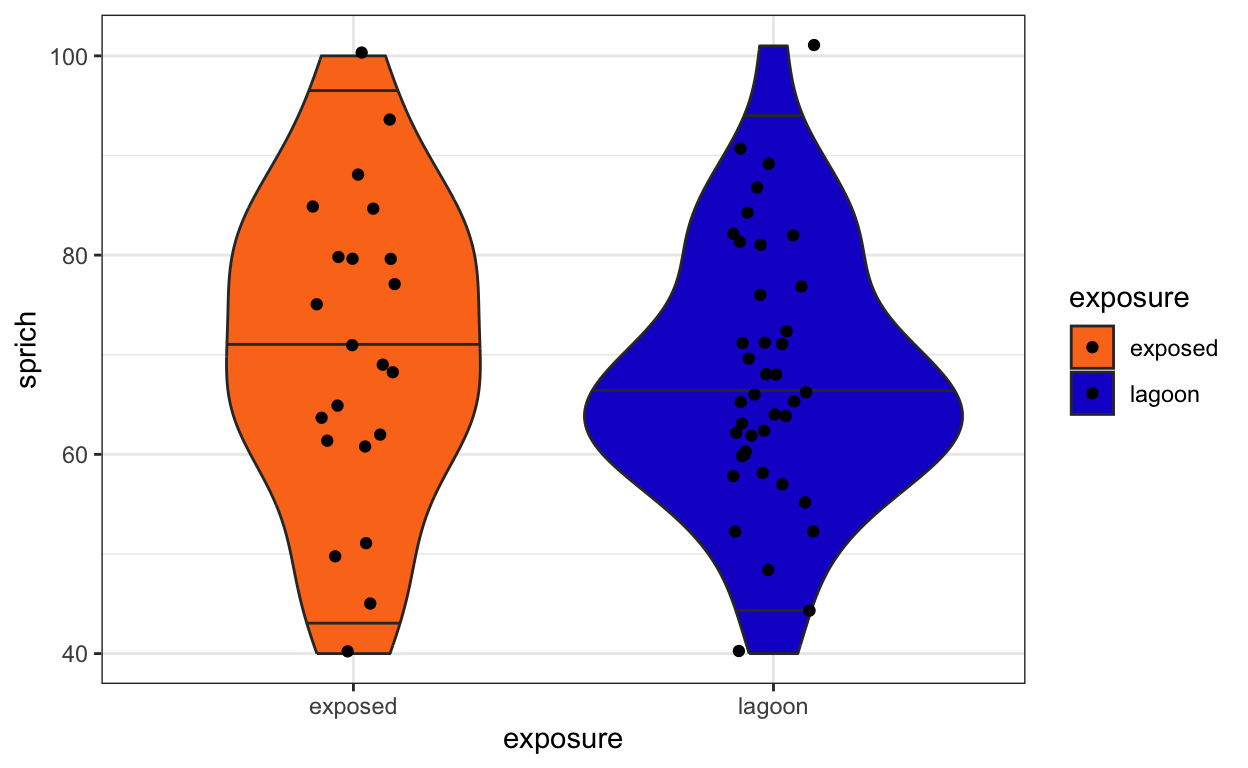
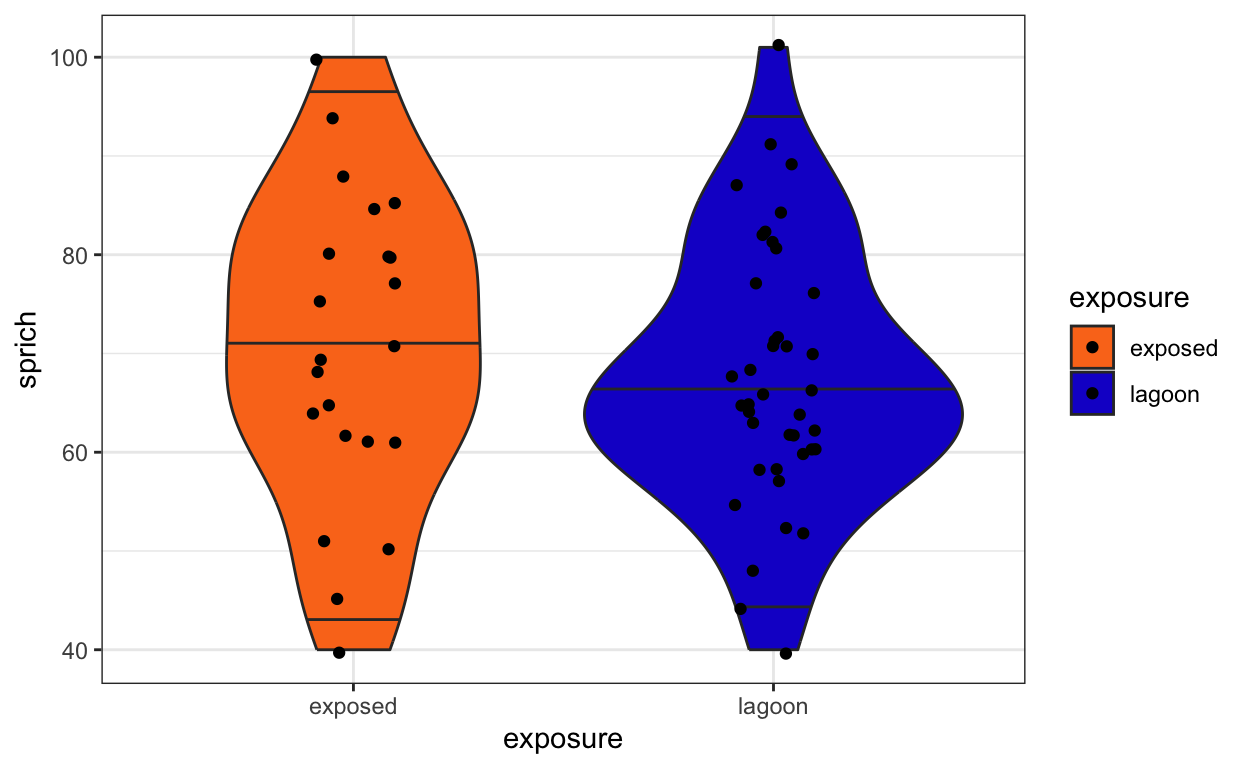
Rebuilt with new link

diff --git a/docs/1-introduction.html b/docs/1-introduction.html
@@ -2819,34 +2819,34 @@ Coding in R
 <pre class="sourceCode r"><code class="sourceCode r"><span><span class='va'>b1</span> <span class='op'>&lt;-</span> <span class='fu'><a href='https://rdrr.io/r/stats/Poisson.html'>rpois</a></span><span class='op'>(</span><span class='fl'>100</span>,<span class='fl'>10</span><span class='op'>)</span></span>
 <span><span class='va'>b1</span></span></code></pre>
 </div>
-<pre><code>  [1] 13 10  7  6  9  6 16  9 11 13 10 12  9 12  7  9  8  5 11  9 15
- [22]  8 12  7 18 12 10 18  7 12 10 14 10  4 11 10  6 10 13  6 11  8
- [43]  6  9 15 12 10  7  9  9 12  9 11  6 12 10  6  7  9 14 14  8  2
- [64]  9 10  6  8  9  3 14  6  9 10 16  9 10 14  8  7  6 12  6 10 10
- [85]  8 11  8  9  7  9 12  8  7  8 13  9  5 11  8 12</code></pre>
+<pre><code>  [1]  6  5 10 12 13 12 11  6 10 10  8 11 12  8  7  4 10 12  8 12 11
+ [22]  9  8  8 10 10  4 10 12 16  7  6  9  7  9  8 11  6 12 12 11 10
+ [43]  8 13 17  6 18  5 14 13 11  6  6 13  8 15  7 17 11  8  7  9  7
+ [64]  8  9  3 15  7 10  6  7 14  6  7 11  9 12  7 13  7 13 13  8  8
+ [85] 17 12 13  2 11 12 10  7 12 19 11 17  8  7 10  8</code></pre>
 <div class="sourceCode">
 <pre class="sourceCode r"><code class="sourceCode r"><span><span class='va'>b2</span> <span class='op'>&lt;-</span> <span class='va'>b1</span><span class='op'>[</span><span class='va'>b1</span> <span class='op'>==</span> <span class='fl'>8</span><span class='op'>]</span></span>
 <span><span class='fu'><a href='https://rdrr.io/r/base/table.html'>table</a></span><span class='op'>(</span><span class='va'>b2</span><span class='op'>)</span></span></code></pre>
 </div>
 <pre><code>b2
  8 
-11 </code></pre>
+14 </code></pre>
 <div class="sourceCode">
 <pre class="sourceCode r"><code class="sourceCode r"><span><span class='fu'><a href='https://rdrr.io/r/base/length.html'>length</a></span><span class='op'>(</span><span class='va'>b2</span><span class='op'>)</span></span></code></pre>
 </div>
-<pre><code>[1] 11</code></pre>
+<pre><code>[1] 14</code></pre>
 <div class="sourceCode">
 <pre class="sourceCode r"><code class="sourceCode r"><span><span class='va'>b3</span> <span class='op'>&lt;-</span> <span class='va'>b1</span><span class='op'>[</span><span class='va'>b1</span> <span class='op'>&gt;</span><span class='fl'>10</span><span class='op'>]</span></span>
 <span><span class='va'>b3</span></span></code></pre>
 </div>
-<pre><code> [1] 13 16 11 13 12 12 11 15 12 18 12 18 12 14 11 13 11 15 12 12 11 12
-[23] 14 14 14 16 14 12 11 12 13 11 12</code></pre>
+<pre><code> [1] 12 13 12 11 11 12 12 12 11 12 16 11 12 12 11 13 17 18 14 13 11 13
+[23] 15 17 11 15 14 11 12 13 13 13 17 12 13 11 12 12 19 11 17</code></pre>
 <div class="sourceCode">
 <pre class="sourceCode r"><code class="sourceCode r"><span><span class='va'>b4</span> <span class='op'>&lt;-</span> <span class='va'>b1</span><span class='op'>[</span><span class='va'>b1</span> <span class='op'>&lt;</span><span class='fl'>10</span> <span class='op'>&amp;</span> <span class='va'>b1</span> <span class='op'>&gt;</span><span class='fl'>5</span><span class='op'>]</span></span>
 <span><span class='va'>b4</span></span></code></pre>
 </div>
-<pre><code> [1] 7 6 9 6 9 9 7 9 8 9 8 7 7 6 6 8 6 9 7 9 9 9 6 6 7 9 8 9 6 8 9 6 9
-[34] 9 8 7 6 6 8 8 9 7 9 8 7 8 9 8</code></pre>
+<pre><code> [1] 6 6 8 8 7 8 9 8 8 7 6 9 7 9 8 6 8 6 6 6 8 7 8 7 9 7 8 9 7 6 7 6 7
+[34] 9 7 7 8 8 7 8 7 8</code></pre>
 </div>
 <h3 id="c">c)</h3>
 <div class="layout-chunk" data-layout="l-body">
@@ -2870,52 +2870,52 @@ Coding in R
 <pre class="sourceCode r"><code class="sourceCode r"><span><span class='va'>a1</span> <span class='op'>&lt;-</span> <span class='fu'><a href='https://rdrr.io/r/stats/Poisson.html'>rpois</a></span><span class='op'>(</span><span class='fl'>500</span>, <span class='fl'>10</span><span class='op'>)</span></span>
 <span><span class='fu'><a href='https://rdrr.io/r/utils/head.html'>head</a></span><span class='op'>(</span><span class='va'>a1</span><span class='op'>)</span></span></code></pre>
 </div>
-<pre><code>[1] 12  8 11  5 11  8</code></pre>
+<pre><code>[1]  7  9  5 14  8  5</code></pre>
 <div class="sourceCode">
 <pre class="sourceCode r"><code class="sourceCode r"><span><span class='va'>a2</span> <span class='op'>&lt;-</span> <span class='va'>a1</span><span class='op'>[</span><span class='va'>a1</span> <span class='op'>&gt;</span> <span class='fl'>15</span><span class='op'>]</span></span>
 <span><span class='fu'><a href='https://rdrr.io/r/base/length.html'>length</a></span><span class='op'>(</span><span class='va'>a2</span><span class='op'>)</span><span class='op'>/</span><span class='fu'><a href='https://rdrr.io/r/base/length.html'>length</a></span><span class='op'>(</span><span class='va'>a1</span><span class='op'>)</span></span></code></pre>
 </div>
-<pre><code>[1] 0.046</code></pre>
+<pre><code>[1] 0.04</code></pre>
 <div class="sourceCode">
 <pre class="sourceCode r"><code class="sourceCode r"><span><span class='va'>a3</span> <span class='op'>&lt;-</span> <span class='fu'><a href='https://rdrr.io/r/base/rev.html'>rev</a></span><span class='op'>(</span><span class='fu'><a href='https://rdrr.io/r/base/sort.html'>sort</a></span><span class='op'>(</span><span class='va'>a1</span><span class='op'>)</span><span class='op'>)</span></span>
 <span><span class='fu'><a href='https://rdrr.io/r/utils/head.html'>head</a></span><span class='op'>(</span><span class='va'>a3</span><span class='op'>)</span></span></code></pre>
 </div>
-<pre><code>[1] 20 19 19 18 18 18</code></pre>
+<pre><code>[1] 20 20 19 19 18 18</code></pre>
 <div class="sourceCode">
 <pre class="sourceCode r"><code class="sourceCode r"><span><span class='va'>a4</span> <span class='op'>&lt;-</span> <span class='fu'><a href='https://rdrr.io/r/base/Log.html'>log</a></span><span class='op'>(</span><span class='va'>a1</span><span class='op'>)</span></span>
 <span><span class='fu'><a href='https://rdrr.io/r/utils/head.html'>head</a></span><span class='op'>(</span><span class='va'>a4</span><span class='op'>)</span></span></code></pre>
 </div>
-<pre><code>[1] 2.484907 2.079442 2.397895 1.609438 2.397895 2.079442</code></pre>
+<pre><code>[1] 1.945910 2.197225 1.609438 2.639057 2.079442 1.609438</code></pre>
 <div class="sourceCode">
 <pre class="sourceCode r"><code class="sourceCode r"><span><span class='co'>#a5</span></span>
 <span><span class='va'>a1</span><span class='op'>[</span><span class='fu'><a href='https://rdrr.io/r/base/seq.html'>seq</a></span><span class='op'>(</span>from<span class='op'>=</span><span class='fl'>0</span>,to<span class='op'>=</span><span class='fl'>500</span>,by<span class='op'>=</span><span class='fl'>10</span><span class='op'>)</span><span class='op'>]</span><span class='op'>&lt;-</span><span class='fl'>0</span></span>
 <span><span class='co'>#or</span></span>
 <span><span class='fu'><a href='https://rdrr.io/r/base/replace.html'>replace</a></span><span class='op'>(</span><span class='va'>a1</span>, <span class='op'>(</span><span class='fu'><a href='https://rdrr.io/r/base/seq.html'>seq</a></span><span class='op'>(</span>from<span class='op'>=</span><span class='fl'>0</span>, to<span class='op'>=</span><span class='fl'>500</span>, by<span class='op'>=</span><span class='fl'>10</span><span class='op'>)</span><span class='op'>)</span>, <span class='fl'>0</span><span class='op'>)</span></span></code></pre>
 </div>
-<pre><code>  [1] 12  8 11  5 11  8 13 15  9  0 17  5  9  8 10 13  8 10 12  0  8
- [22]  5 12  5  7  8 10  8 12  0  7  5 10  9  6 12  5 10 12  0 13  9
- [43]  9 10  7 11 16  6  9  0 16 11 10 12 11 14 17  7  6  0 12 10 14
- [64] 11  9 11  9 11 11  0  6  7  7 11  3  6 11 11 12  0 14 14 13 14
- [85]  6  7  9 13  6  0 16  9  9 10  8  9  9  8 12  0  5  6  8 16 11
-[106]  8 13 11 11  0 16 15 11 10  8 13 11 12 12  0 15 11 11  6 11  6
-[127] 12 13 13  0 14  9  9 13 10 10 11  6 13  0  8 12 13  6  8  7  3
-[148] 15 10  0 10 15 19  8  5  9  6  9  7  0 11  7 12 12  9 10 11  7
-[169]  9  0 11 12  6 10 11 10  5 10 14  0 10 10  9  9  6 17 11 13  5
-[190]  0  9 16 10 14  8  9  9  7 12  0 10 10  9  8 11 11 10 12  7  0
-[211]  7  7 10 11 18  8 12  8  9  0 10 15  4 10 12  9  6  7  9  0 14
-[232] 15  4  9 14 10  8 15 11  0  9 10  8 11 13  7 18  7 11  0  8  9
-[253] 10 10  9  9  6 11 12  0  8  8  6  9 14  8  7 16  6  0 13 11  9
-[274] 17 11 13 15 11  4  0  7 13 20  6 11 13  8 12  9  0  8 12  9  7
-[295]  7  6 13 14  6  0  9 11 13  5 12 14 12 12 10  0 10 14  8  6 13
-[316] 10  7  9  3  0 12  9  9  5  6 13 10 11 12  0  8  8  6  6 16 12
-[337] 10 11 15  0  9 13 11 11 11  7 15 11 13  0 13  8 16  5 13  6 11
-[358] 16  8  0 10 10 11 11 12 10  8 15 13  0 10  3 12 10 11  7  8 10
-[379]  9  0  5 13  9  9 12 10  6 13  8  0 13 11  8  7  8 10  6  7  9
-[400]  0  8 10  5 15 15 18 15  9 15  0 11 11  9 17  8 10  8 13 10  0
-[421] 10 11 15  6 10  7 11  7  9  0  9 12  5  8 15 10 11 11 16  0 13
-[442] 11  8  8 12 10  7 12 11  0  5  9 10 11 11  5  9  9  9  0 13  3
-[463]  9 11 19 15 13 10 10  0  8 12  9  7  6 12 13  5 13  0 12  8  9
-[484]  8  7  5 13 14 15  0  8 13  5  7 10 11  8 10 11  0</code></pre>
+<pre><code>  [1]  7  9  5 14  8  5 10 10 10  0 12  8 16 11 12 10  8  9 13  0  8
+ [22]  5  5  5 10  8 11 13  8  0 14  8 15 15  8  5  8  7  7  0 11 11
+ [43] 12 14 10  8 15 10  8  0  5 10  8 10 13 11 13  9 15  0 12  7 11
+ [64] 12 11  6  7  9 17  0 12 11  9  9 11  2  9  5  6  0  8  8  7  9
+ [85] 12  8  7 12  6  0 12  9 11 15 15 13 18  5  7  0  7  9  9 11 12
+[106]  7 11  9 16  0  5 12  8  8 10  8  8 15  7  0  8 13  8  7  8 11
+[127] 10 10  8  0 10 11  7 14 16 12  8 15  8  0 13 14 10 10  8 11  5
+[148]  6  8  0 11  8 11 12  8 13 11 11  8  0  7  7  5 10  9 10 11 14
+[169]  6  0  5  8 13  7  8 11 10 12  6  0 10 11 11 12 13  7  5 12 11
+[190]  0  5 11  9  5 13 12 11 14 15  0 11  8  9  9  6 12  7 11  8  0
+[211]  8  7 10  8 10  9  8  7 13  0 10  6  8 10  9  6 20 11  9  0  7
+[232]  9 11 18  7  6  8  9  9  0 11  7  9  7  5  9  6 10  4  0  9  7
+[253]  5  7 16  8  7  5 13  0  6 10 10 11 12 14 11  8  9  0  9 10  9
+[274]  5  8  4 12 11 12  0  9 11  2  8  6 16  4 13 14  0 12 11 12  5
+[295]  8 11 10 13 10  0 11 12  6  7  8 10 10 12 11  0  9 15 10  6 12
+[316] 12  7  9  9  0 15  6  9  7 17  9  9  6  6  0  8 19 14 12 13 10
+[337]  4 10 17  0  8  8  3 14  5 10 11 20 13  0 14 12 16 16  8 12  8
+[358] 16 14  0 11 12 11 12 15 11 10 14 11  0  5 10  8  8  8  9 12 18
+[379] 10  0 13 11  4 11 10  7 11  8  9  0  8 10 11  9 11 14  6  7  8
+[400]  0  8  7 12  7 13 13  7  8  6  0 14 12  9  5  8  8 10  4 10  0
+[421]  5 11 13 12  7  9  9  8  6  0 13 10 10  9  6  9 16 13  7  0  8
+[442] 10 13  8 11  8  7 13 11  0  6  9  6 11 12  6  9 12  7  0  8 11
+[463] 12 10  6 10 14  6  7  0 10  5 13  7 15  4 10 13 13  0 12 10  7
+[484]  9  6  9 14 13  9  0  8  7  6 10 12  6  7 10 15  0</code></pre>
 <div class="sourceCode">
 <pre class="sourceCode r"><code class="sourceCode r"><span><span class='va'>a5logmean</span> <span class='op'>&lt;-</span> <span class='fu'><a href='https://rdrr.io/r/base/mean.html'>mean</a></span><span class='op'>(</span><span class='fu'><a href='https://rdrr.io/r/base/Log.html'>log</a></span><span class='op'>(</span><span class='va'>a1</span><span class='op'>[</span><span class='fu'><a href='https://rdrr.io/r/base/seq.html'>seq</a></span><span class='op'>(</span>from<span class='op'>=</span><span class='fl'>0</span>,to<span class='op'>=</span><span class='fl'>500</span>,by<span class='op'>=</span><span class='fl'>10</span><span class='op'>)</span><span class='op'>]</span><span class='op'>&lt;-</span><span class='fl'>0</span><span class='op'>)</span><span class='op'>)</span> <span class='co'># doesn't work because of -Inf values, so let's go step-by-step</span></span>
 <span></span>
@@ -2958,76 +2958,76 @@ Coding in R
 <span><span class='fu'><a href='https://rdrr.io/r/utils/head.html'>head</a></span><span class='op'>(</span><span class='va'>c1</span><span class='op'>)</span></span></code></pre>
 </div>
 <pre><code>          [,1]      [,2]      [,3]      [,4]      [,5]      [,6]
-[1,] 103.65562 101.22711 105.76859  88.86894 102.22062 106.32632
-[2,] 113.22592  97.69081 117.00387  94.00376  89.26967 115.87062
-[3,]  80.15208 102.01380 113.08119  88.39550  99.58117 105.06630
-[4,] 110.18524  97.01070  93.76947  74.86526 107.39281 109.13008
-[5,]  99.64348  95.42048 112.67507 105.72902 125.05019  98.06804
-[6,] 104.63378  85.03731 105.95855 116.72027  99.32902 115.88835
+[1,]  99.59416 116.19500 108.47423  86.72064  98.52786 127.04213
+[2,] 107.83928  93.22018 110.48586  99.59424 119.42783  98.38062
+[3,]  95.66261 101.17058  80.62598 100.66730  92.44391 104.01521
+[4,] 101.68295 115.84988 109.92216 108.52651 100.85477  96.85815
+[5,] 111.69038 102.55995  89.78516 110.44261 101.90267 115.22608
+[6,]  76.72973  97.30814  82.79754 104.17773  88.15206 107.98915
           [,7]      [,8]      [,9]     [,10]     [,11]     [,12]
-[1,]  87.93976  95.80238 111.64714 110.60323 106.67878 100.80177
-[2,] 114.82316 104.60330  92.10494  95.03110 104.46856  96.82398
-[3,]  99.41770 103.16440  85.71278  90.46003  81.41973  98.30198
-[4,]  99.22325  97.20583  94.68459 101.80531  76.96327  93.53885
-[5,] 106.20944 101.86919  92.94820  88.37779  76.46108  99.28037
-[6,]  92.75100  97.38919 102.18355 110.97636  84.23188  91.52920
-         [,13]     [,14]     [,15]     [,16]     [,17]     [,18]
-[1,]  89.25486 121.72119  82.92821  96.66179  92.57092 102.92133
-[2,] 101.91895 111.25251 113.02939  81.54711  97.83780  86.06729
-[3,] 105.49562 102.33688  90.70931 102.43243  97.09849  92.79204
-[4,] 100.20590  96.31525  97.43857  94.84951  92.34941 117.16263
-[5,] 114.83961  83.37157 115.41543 126.26213 114.87900 102.27601
-[6,] 100.57289  99.52390  93.33531 109.77464  94.04768 103.66332
+[1,]  96.21936  79.96057 100.90805 117.76702 109.74161  98.03116
+[2,] 105.26563 120.10472  96.31005 109.08759 104.65015  93.42176
+[3,]  94.88510  94.89383 119.10407  97.11817 100.96546  93.60765
+[4,] 105.45061  77.58664  99.07037  99.06464 120.49667 103.27415
+[5,]  79.49622 100.21319 105.08712 113.04148  92.45847 105.49620
+[6,]  80.53647  95.32184 101.89792 106.22748  88.01336 105.39017
+         [,13]     [,14]     [,15]     [,16]    [,17]     [,18]
+[1,]  96.47781  87.88193 105.55433 106.73350 110.7304  92.07627
+[2,]  99.91062 103.84874  76.51748 111.51594 105.5600 111.87563
+[3,]  96.86252 114.35411 105.67174  97.83965 106.4747 115.06750
+[4,]  98.60403  87.30328  86.52974 104.70433 101.5320  99.83222
+[5,]  89.36371  89.58280  99.08692  82.98033 101.4818  96.82830
+[6,] 107.04656 100.95071  97.70789  93.65879 100.8967  88.91626
          [,19]     [,20]
-[1,] 108.86376  95.56839
-[2,] 103.07032  85.43460
-[3,] 112.05596  89.66971
-[4,] 107.33602  96.72665
-[5,]  98.40196  77.74847
-[6,]  97.06602 101.91683</code></pre>
+[1,] 102.96622  89.75591
+[2,]  90.39107  97.99875
+[3,] 117.47289  97.27466
+[4,] 107.25044  97.28720
+[5,] 111.73320  92.45004
+[6,]  99.23334 101.21472</code></pre>
 <div class="sourceCode">
 <pre class="sourceCode r"><code class="sourceCode r"><span><span class='va'>c2</span> <span class='op'>&lt;-</span> <span class='va'>c1</span><span class='op'>[</span><span class='fl'>98</span>, <span class='fl'>5</span><span class='op'>]</span> <span class='co'># look for value in row 98 column 5</span></span>
 <span><span class='va'>c2</span></span></code></pre>
 </div>
-<pre><code>[1] 91.02041</code></pre>
+<pre><code>[1] 106.5481</code></pre>
 <div class="sourceCode">
 <pre class="sourceCode r"><code class="sourceCode r"><span><span class='fu'><a href='https://rdrr.io/r/base/summary.html'>summary</a></span><span class='op'>(</span><span class='va'>c1</span><span class='op'>)</span> <span class='co'># look for maximum value and largest deviation from the specified mean (100)</span></span></code></pre>
 </div>
 <pre><code>       V1               V2               V3               V4        
- Min.   : 80.15   Min.   : 74.72   Min.   : 72.93   Min.   : 74.87  
- 1st Qu.: 94.90   1st Qu.: 92.77   1st Qu.: 92.70   1st Qu.: 93.06  
- Median :100.76   Median :100.36   Median : 98.83   Median : 99.04  
- Mean   :101.72   Mean   : 99.07   Mean   : 98.75   Mean   :100.40  
- 3rd Qu.:108.23   3rd Qu.:106.80   3rd Qu.:104.98   3rd Qu.:108.08  
- Max.   :129.07   Max.   :115.92   Max.   :124.88   Max.   :126.02  
+ Min.   : 76.73   Min.   : 83.39   Min.   : 68.22   Min.   : 70.27  
+ 1st Qu.: 95.85   1st Qu.: 92.93   1st Qu.: 92.23   1st Qu.: 92.23  
+ Median :101.18   Median :100.72   Median :101.28   Median :100.14  
+ Mean   :102.02   Mean   :100.39   Mean   :100.60   Mean   : 98.91  
+ 3rd Qu.:109.03   3rd Qu.:105.13   3rd Qu.:109.60   3rd Qu.:106.20  
+ Max.   :129.41   Max.   :130.35   Max.   :123.33   Max.   :119.57  
        V5               V6               V7               V8        
- Min.   : 72.77   Min.   : 85.38   Min.   : 79.65   Min.   : 74.29  
- 1st Qu.: 92.29   1st Qu.: 96.01   1st Qu.: 92.93   1st Qu.: 93.26  
- Median :100.63   Median :101.15   Median : 99.44   Median :101.14  
- Mean   :100.00   Mean   :102.25   Mean   : 99.49   Mean   :100.32  
- 3rd Qu.:107.53   3rd Qu.:108.08   3rd Qu.:106.22   3rd Qu.:108.87  
- Max.   :125.05   Max.   :122.25   Max.   :115.23   Max.   :120.57  
-       V9              V10              V11              V12        
- Min.   : 77.73   Min.   : 78.41   Min.   : 76.46   Min.   : 69.02  
- 1st Qu.: 93.48   1st Qu.: 93.55   1st Qu.: 91.43   1st Qu.: 93.01  
- Median :101.12   Median : 99.71   Median : 99.24   Median : 98.51  
- Mean   :100.56   Mean   : 99.91   Mean   : 98.76   Mean   : 98.63  
- 3rd Qu.:107.81   3rd Qu.:106.21   3rd Qu.:105.36   3rd Qu.:104.99  
- Max.   :123.14   Max.   :122.49   Max.   :130.99   Max.   :123.14  
+ Min.   : 74.04   Min.   : 72.91   Min.   : 77.25   Min.   : 73.71  
+ 1st Qu.: 93.45   1st Qu.: 92.41   1st Qu.: 93.43   1st Qu.: 92.59  
+ Median : 98.83   Median :102.27   Median : 98.50   Median : 99.68  
+ Mean   : 99.34   Mean   :100.92   Mean   : 98.58   Mean   : 99.37  
+ 3rd Qu.:105.38   3rd Qu.:109.52   3rd Qu.:105.27   3rd Qu.:106.49  
+ Max.   :123.85   Max.   :127.04   Max.   :122.25   Max.   :128.67  
+       V9              V10              V11             V12        
+ Min.   : 66.15   Min.   : 78.54   Min.   : 80.4   Min.   : 81.95  
+ 1st Qu.: 93.20   1st Qu.: 91.09   1st Qu.: 92.5   1st Qu.: 95.01  
+ Median : 99.90   Median : 97.45   Median :100.7   Median :100.52  
+ Mean   :100.58   Mean   : 98.97   Mean   :101.0   Mean   :101.10  
+ 3rd Qu.:107.44   3rd Qu.:106.22   3rd Qu.:107.7   3rd Qu.:106.84  
+ Max.   :126.70   Max.   :124.76   Max.   :124.8   Max.   :125.34  
       V13              V14              V15              V16        
- Min.   : 69.68   Min.   : 74.04   Min.   : 74.55   Min.   : 69.32  
- 1st Qu.: 93.23   1st Qu.: 91.64   1st Qu.: 92.90   1st Qu.: 92.54  
- Median : 99.71   Median : 98.93   Median :100.04   Median :100.17  
- Mean   : 98.74   Mean   : 99.32   Mean   : 99.54   Mean   : 99.28  
- 3rd Qu.:104.09   3rd Qu.:107.21   3rd Qu.:105.33   3rd Qu.:105.48  
- Max.   :126.21   Max.   :128.91   Max.   :126.30   Max.   :126.26  
+ Min.   : 63.22   Min.   : 74.28   Min.   : 69.39   Min.   : 74.63  
+ 1st Qu.: 93.09   1st Qu.: 93.41   1st Qu.: 93.09   1st Qu.: 93.05  
+ Median : 99.56   Median :100.91   Median :100.52   Median :101.41  
+ Mean   : 99.35   Mean   :100.29   Mean   : 99.45   Mean   :101.12  
+ 3rd Qu.:106.76   3rd Qu.:106.62   3rd Qu.:107.89   3rd Qu.:108.21  
+ Max.   :124.37   Max.   :126.24   Max.   :124.45   Max.   :126.73  
       V17              V18              V19              V20        
- Min.   : 69.91   Min.   : 77.35   Min.   : 72.23   Min.   : 75.97  
- 1st Qu.: 93.96   1st Qu.: 93.58   1st Qu.: 95.14   1st Qu.: 90.58  
- Median : 99.99   Median :101.22   Median :100.18   Median : 97.12  
- Mean   : 99.84   Mean   :100.75   Mean   :100.78   Mean   : 97.96  
- 3rd Qu.:106.28   3rd Qu.:108.35   3rd Qu.:108.92   3rd Qu.:106.30  
- Max.   :121.02   Max.   :121.76   Max.   :121.94   Max.   :127.84  </code></pre>
+ Min.   : 76.90   Min.   : 76.77   Min.   : 76.48   Min.   : 71.14  
+ 1st Qu.: 92.76   1st Qu.: 94.65   1st Qu.: 93.23   1st Qu.: 92.47  
+ Median :100.25   Median : 99.70   Median :101.04   Median : 98.78  
+ Mean   : 98.93   Mean   :101.00   Mean   : 99.48   Mean   : 99.53  
+ 3rd Qu.:105.65   3rd Qu.:107.72   3rd Qu.:107.28   3rd Qu.:107.12  
+ Max.   :125.35   Max.   :126.89   Max.   :123.41   Max.   :121.05  </code></pre>
 </div>
 <h3 id="d">d)</h3>
 <div class="layout-chunk" data-layout="l-body">

diff --git a/docs/1-primer.html b/docs/1-primer.html
@@ -2553,7 +2553,7 @@ Coding in R
 <div class="layout-chunk" data-layout="l-body">
 <div class="vembedr">
 <div>
-<iframe src="https://www.youtube.com/embed/RcpJ6stmTmA" width="533" height="300" frameborder="0" allowfullscreen="" data-external="1"></iframe>
+<iframe src="https://www.youtube.com/embed/cCiytu7posE" width="533" height="300" frameborder="0" allowfullscreen="" data-external="1"></iframe>
 </div>
 </div>
 </div>
